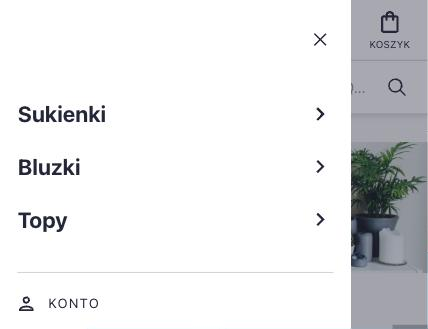
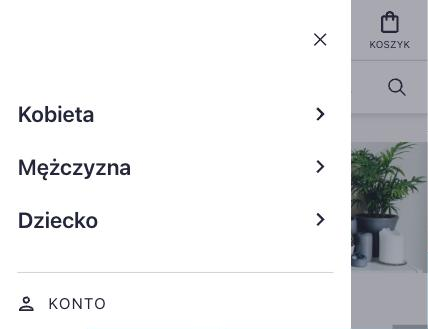
feat: let the mobile drawer start from the shop sections

diff --git a/prestashop/themes/designpresta/assets/css/header.css b/prestashop/themes/designpresta/assets/css/header.css
@@ -293,7 +293,7 @@
 .header-top-mobile-trigger {
   display: flex;
   align-items: center;
-  gap: var(--dp-space-12);
+  gap: var(--dp-space-8);
   flex: 0 0 auto;
   padding: 0;
   border: 0;
@@ -445,7 +445,7 @@
   min-height: var(--dp-space-40);
   color: var(--dp-color-neutral-black);
   font-family: var(--dp-font-family-base);
-  font-size: var(--dp-font-size-small);
+  font-size: var(--dp-font-size-body);
   font-weight: var(--dp-font-weight-regular);
   line-height: var(--dp-line-height-small);
   letter-spacing: var(--dp-letter-spacing-label);

diff --git a/prestashop/modules/designmenu/designmenu.php b/prestashop/modules/designmenu/designmenu.php
@@ -135,21 +135,42 @@ class DesignMenu extends Module
 
     public function hookActionFrontControllerInitAfter()
     {
-        $identifiers = DesignMenuModeItem::getForMode($this->getSelectedModeId(), (int) $this->context->shop->id);
-
-        if (!$identifiers) {
-            return;
-        }
-
         $tree = $this->getMainMenuTree();
 
         if (!$tree) {
             return;
         }
 
+        $this->context->smarty->assign('designmenu_sections', $this->getSections($tree['children']));
+
+        $identifiers = DesignMenuModeItem::getForMode($this->getSelectedModeId(), (int) $this->context->shop->id);
+
+        if (!$identifiers) {
+            return;
+        }
+
         $tree['children'] = $this->filterNodes($tree['children'], array_fill_keys($identifiers, true));
 
         $this->context->smarty->assign('designmenu_menu', $tree);
+    }
+
+    protected function getSections(array $nodes): array
+    {
+        $idShop = (int) $this->context->shop->id;
+        $sections = [];
+
+        foreach ($this->getActiveModes() as $mode) {
+            $idMode = (int) $mode[DesignMenuMode::$definition['primary']];
+            $identifiers = DesignMenuModeItem::getForMode($idMode, $idShop);
+
+            $sections[] = [
+                'id' => $idMode,
+                'label' => $mode['label'],
+                'children' => $identifiers ? $this->filterNodes($nodes, array_fill_keys($identifiers, true)) : $nodes,
+            ];
+        }
+
+        return $sections;
     }
 
     protected function filterNodes(array $nodes, array $allowed): array
